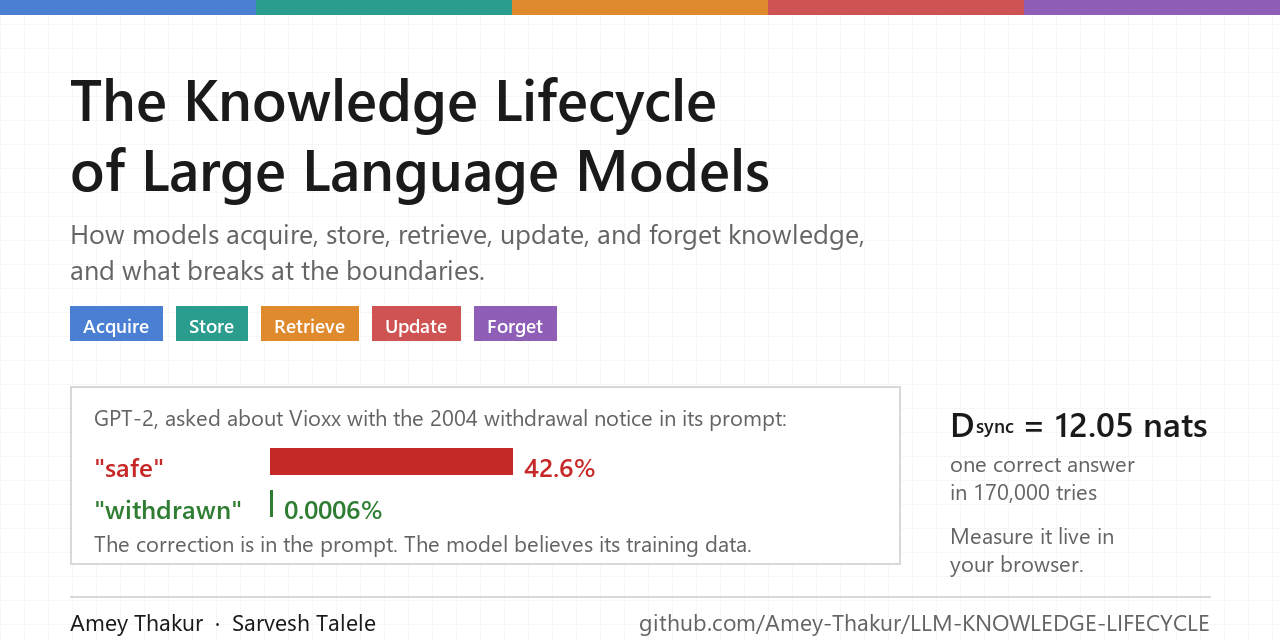
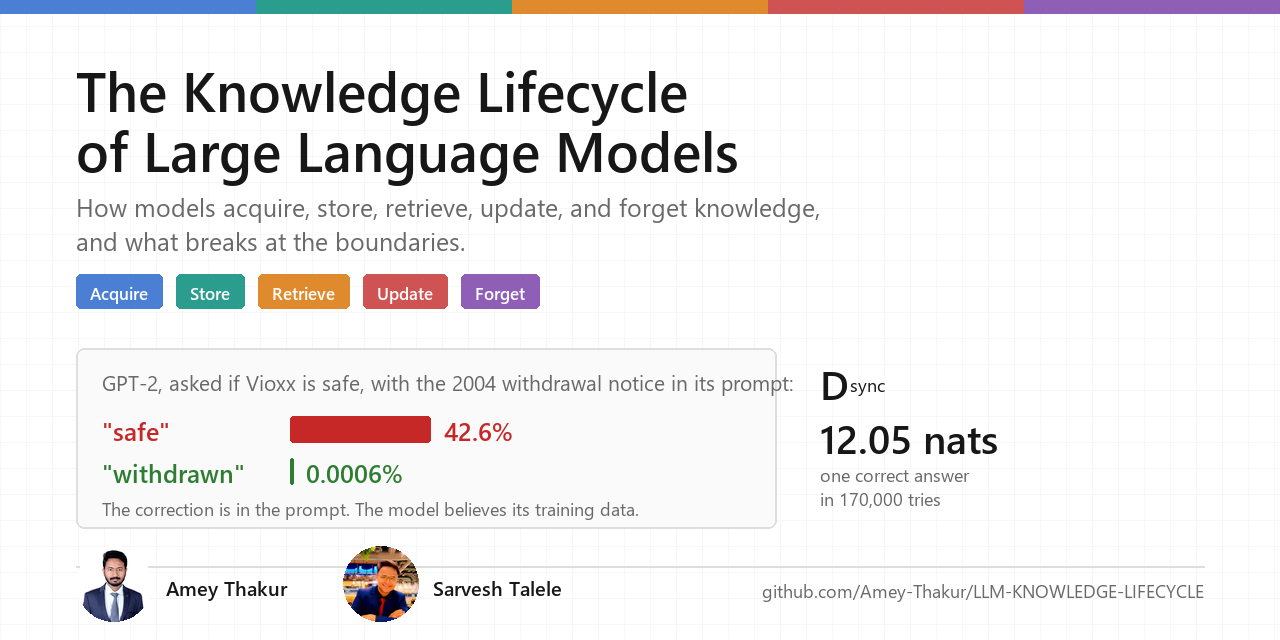
Knowledge Lifecycle

Changed region(s): [[0.0625, 0.5625, 0.9375, 1.0], [0.0312, 0.0938, 0.6875, 0.5625]]

diff --git a/space/404.html b/space/404.html
@@ -1,0 +1,54 @@
+<!DOCTYPE html>
+<!-- ==========================================================================
+  File        : 404.html
+  Project     : The Knowledge Lifecycle of Large Language Models
+  Purpose     : Page shown when a visitor reaches an address this Space does
+                not serve, written in the vocabulary of the paper itself.
+  Authors     : Amey Thakur (https://github.com/Amey-Thakur)
+                Sarvesh Talele (https://github.com/sarveshtalele)
+  Repository  : https://github.com/Amey-Thakur/LLM-KNOWLEDGE-LIFECYCLE
+  Release Date: August 16, 2026
+  License     : CC BY 4.0
+=========================================================================== -->
+<html lang="en">
+<head>
+<meta charset="utf-8">
+<meta name="viewport" content="width=device-width, initial-scale=1">
+<title>Not found &middot; LLM Knowledge Lifecycle</title>
+<link rel="stylesheet" href="style.css">
+<style>
+  .lost { text-align: center; padding: 3rem 0 1rem; }
+  .lost h1 { font-size: 1.7rem; margin-bottom: .6rem; }
+  .lost .code { font-size: 3.4rem; font-weight: 600; color: var(--accent); line-height: 1; }
+  .lost p { max-width: 34rem; margin: .8rem auto; color: var(--muted); }
+  .lost .back { display: inline-block; margin-top: 1.4rem; padding: .55rem 1.4rem;
+                background: var(--accent); color: #fff; border-radius: 7px; text-decoration: none; }
+  .lost .back:hover { background: #16406f; }
+</style>
+</head>
+<body>
+
+<div class="stagebar" title="The five lifecycle stages">
+  <span class="s1">Acquire</span><span class="s2">Store</span><span class="s3">Retrieve</span><span class="s4">Update</span><span class="s5">Forget</span>
+</div>
+
+<div class="lost">
+  <p class="code">404</p>
+  <h1>Retrieval failed</h1>
+  <p>
+    Nothing is stored at this address. The rest of the demonstration measures what
+    happens when retrieval succeeds and the model ignores what it found, which is
+    the more interesting failure.
+  </p>
+  <a class="back" href="./">Go to the probe</a>
+</div>
+
+<footer>
+  <p class="foot-links">
+    <a href="https://github.com/Amey-Thakur/LLM-KNOWLEDGE-LIFECYCLE">Paper repository</a>
+    &middot; <a href="https://amey-thakur.github.io">Amey's Arc</a>
+  </p>
+</footer>
+
+</body>
+</html>

diff --git a/space/style.css b/space/style.css
@@ -37,7 +37,7 @@
 body {
   margin: 0 auto;
   padding: 3rem 1.5rem 4.5rem;
-  max-width: 58rem;
+  max-width: 54rem;
   font: 16px/1.55 -apple-system, "Segoe UI", Roboto, Helvetica, Arial, sans-serif;
   color: var(--ink);
   background:
@@ -305,8 +305,10 @@ body { line-height: 1.65; }
 .reading,
 #guide p,
 .narrative,
-.note { max-width: 46rem; }
-.alert { max-width: 46rem; line-height: 1.6; }
+.note,
+.alert,
+.glossary { max-width: none; }
+.alert { line-height: 1.6; }
 .subtitle { max-width: 44rem; }
 
 .lede { margin-bottom: 1.6rem; font-size: 1rem; }

diff --git a/paper/poster.tex b/paper/poster.tex
@@ -1,5 +1,7 @@
 \documentclass[25pt, a0paper, portrait]{tikzposter}
 \usetheme{Desert}
+\usepackage{amsmath}   % equation*, used by the metric and gate blocks below
+\usepackage{amssymb}
 \usepackage{booktabs}
 \usepackage{tikz}
 \usetikzlibrary{arrows.meta, positioning, shapes.geometric, calc}

diff --git a/README.md b/README.md
@@ -19,16 +19,33 @@
 
 <br><br>
 
+[Authors](#authors) &nbsp;·&nbsp;
 [The paper](#the-paper) &nbsp;·&nbsp;
 [Contributions](#contributions) &nbsp;·&nbsp;
 [The measurement](#the-measurement) &nbsp;·&nbsp;
 [Live demonstration](#live-demonstration) &nbsp;·&nbsp;
 [Reproducing](#reproducing-the-measurement) &nbsp;·&nbsp;
 [Repository layout](#repository-layout) &nbsp;·&nbsp;
-[Authors](#authors) &nbsp;·&nbsp;
 [Citation](#citation)
 
 </div>
+
+---
+
+<!-- AUTHORS -->
+<div align="center">
+
+  <a name="authors"></a>
+  ## Authors
+
+| <a href="https://github.com/Amey-Thakur"><img src="space/amey-thakur.jpg" width="150" height="150" alt="Amey Thakur"></a><br>[**Amey Thakur**](https://github.com/Amey-Thakur)<br><br>[![ORCID](https://img.shields.io/badge/ORCID-0000--0001--5644--1575-A6CE39.svg)](https://orcid.org/0000-0001-5644-1575) | <a href="https://github.com/sarveshtalele"><img src="https://github.com/sarveshtalele.png" width="150" height="150" alt="Sarvesh Talele"></a><br>[**Sarvesh Talele**](https://github.com/sarveshtalele)<br><br>[![ORCID](https://img.shields.io/badge/ORCID-0009--0002--0818--461X-A6CE39.svg)](https://orcid.org/0009-0002-0818-461X) |
+| :---: | :---: |
+
+</div>
+
+> [!IMPORTANT]
+> ### 🤝🏻 Special Acknowledgement
+> *Special thanks to **[Sarvesh Talele](https://github.com/sarveshtalele)** for his meaningful contributions, support, and wisdom that helped shape this work.*
 
 ---
 
@@ -44,7 +61,7 @@ The manuscript is [`paper/main.tex`](paper/main.tex). Every push compiles it, th
 <a name="contributions"></a>
 ## Contributions
 
-**Lifecycle Desynchronization ($\mathcal{D}_{sync}$)** turns the boundary failure into a number. For a fact with a verified answer it reduces to the surprisal of that answer with the corrective document present in context: $n$ nats means the model assigns the correct answer probability $e^{-n}$. A companion diagnostic, $\mathcal{I}_{ctx}$, measures how far the document moves the model's output distribution at all. Together they separate a retrieval failure from a resolution failure, which no single-stage benchmark can do.
+**Lifecycle Desynchronization ($\mathcal{D}_{sync}$)** turns the boundary failure into a number. For a fact with a verified answer it reduces to the surprisal of that answer with the corrective document present in context. The unit is the nat, a measure of information based on natural logarithms, and it converts straight back to probability: $n$ nats means the model assigns the correct answer probability $e^{-n}$. A companion diagnostic, $\mathcal{I}_{ctx}$, measures how far the document moves the model's output distribution at all. Together they separate a retrieval failure from a resolution failure, which no single-stage benchmark can do.
 
 **The Provenance Vector ($p$)** addresses the root cause: parametric storage discards when and from where a fact was learned, so a model has no principled basis for preferring fresh evidence over a confident stale memory. Each feed-forward memory slot gains a metadata embedding of acquisition time and source reliability, and a gate attenuates stale activations at inference. Weights are never modified, so the specificity bottleneck that limits static editing does not apply. The paper gives the forward pass as an algorithm, derives the parameter cost, and proves an idealized consistency result under explicitly stated assumptions.
 
@@ -69,7 +86,7 @@ The correction is in the prompt, and the model's confidence that the drug is saf
 
 [**huggingface.co/spaces/ameythakur/llm-knowledge-lifecycle**](https://huggingface.co/spaces/ameythakur/llm-knowledge-lifecycle)
 
-GPT-2 runs entirely in the visitor's browser through ONNX; no server sees the input. Three preset probes cover three distinct regimes, and any fact change with a single-word answer can be entered directly. Two parameters are adjustable: sampling temperature, recomputed live from the measured logits, and document repetition, which re-runs the model to test whether saying it louder helps.
+GPT-2 runs entirely in the visitor's browser through ONNX; no server sees the input. Three preset probes cover three distinct regimes, and any fact change with a single-word answer can be entered directly. Two parameters are adjustable: sampling temperature, which controls how randomly the model chooses among candidates, and document repetition, which re-runs the model to test whether stating the correction more than once helps.
 
 The Space is mirrored from [`space/`](space/) by [a workflow](.github/workflows/sync-space.yml) on every push. **GitHub is the source of truth**; edits made through the Hugging Face web interface are overwritten by the next push.
 
@@ -104,20 +121,6 @@ Prints the top tokens under both conditions, the probabilities of the correct an
 ├── codemeta.json             # Machine-readable project metadata
 └── LICENSE                   # CC BY 4.0
 ```
-
-<a name="authors"></a>
-## Authors
-
-<div align="center">
-
-| <a href="https://github.com/Amey-Thakur"><img src="space/amey-thakur.jpg" width="150" height="150" alt="Amey Thakur"></a><br>[**Amey Thakur**](https://github.com/Amey-Thakur)<br><br>[![ORCID](https://img.shields.io/badge/ORCID-0000--0001--5644--1575-A6CE39.svg)](https://orcid.org/0000-0001-5644-1575)<br>[![Kaggle](https://img.shields.io/badge/Kaggle-ameythakur20-20BEFF?logo=kaggle&logoColor=white)](https://www.kaggle.com/ameythakur20) | <a href="https://github.com/sarveshtalele"><img src="https://github.com/sarveshtalele.png" width="150" height="150" alt="Sarvesh Talele"></a><br>[**Sarvesh Talele**](https://github.com/sarveshtalele)<br><br>[![ORCID](https://img.shields.io/badge/ORCID-0009--0002--0818--461X-A6CE39.svg)](https://orcid.org/0009-0002-0818-461X)<br>[![GitHub](https://img.shields.io/badge/GitHub-sarveshtalele-181717?logo=github)](https://github.com/sarveshtalele) |
-| :---: | :---: |
-
-</div>
-
-> [!IMPORTANT]
-> ### 🤝🏻 Special Acknowledgement
-> *Special thanks to **[Sarvesh Talele](https://github.com/sarveshtalele)** for his meaningful contributions, support, and wisdom that helped shape this work.*
 
 <a name="citation"></a>
 ## Citation
